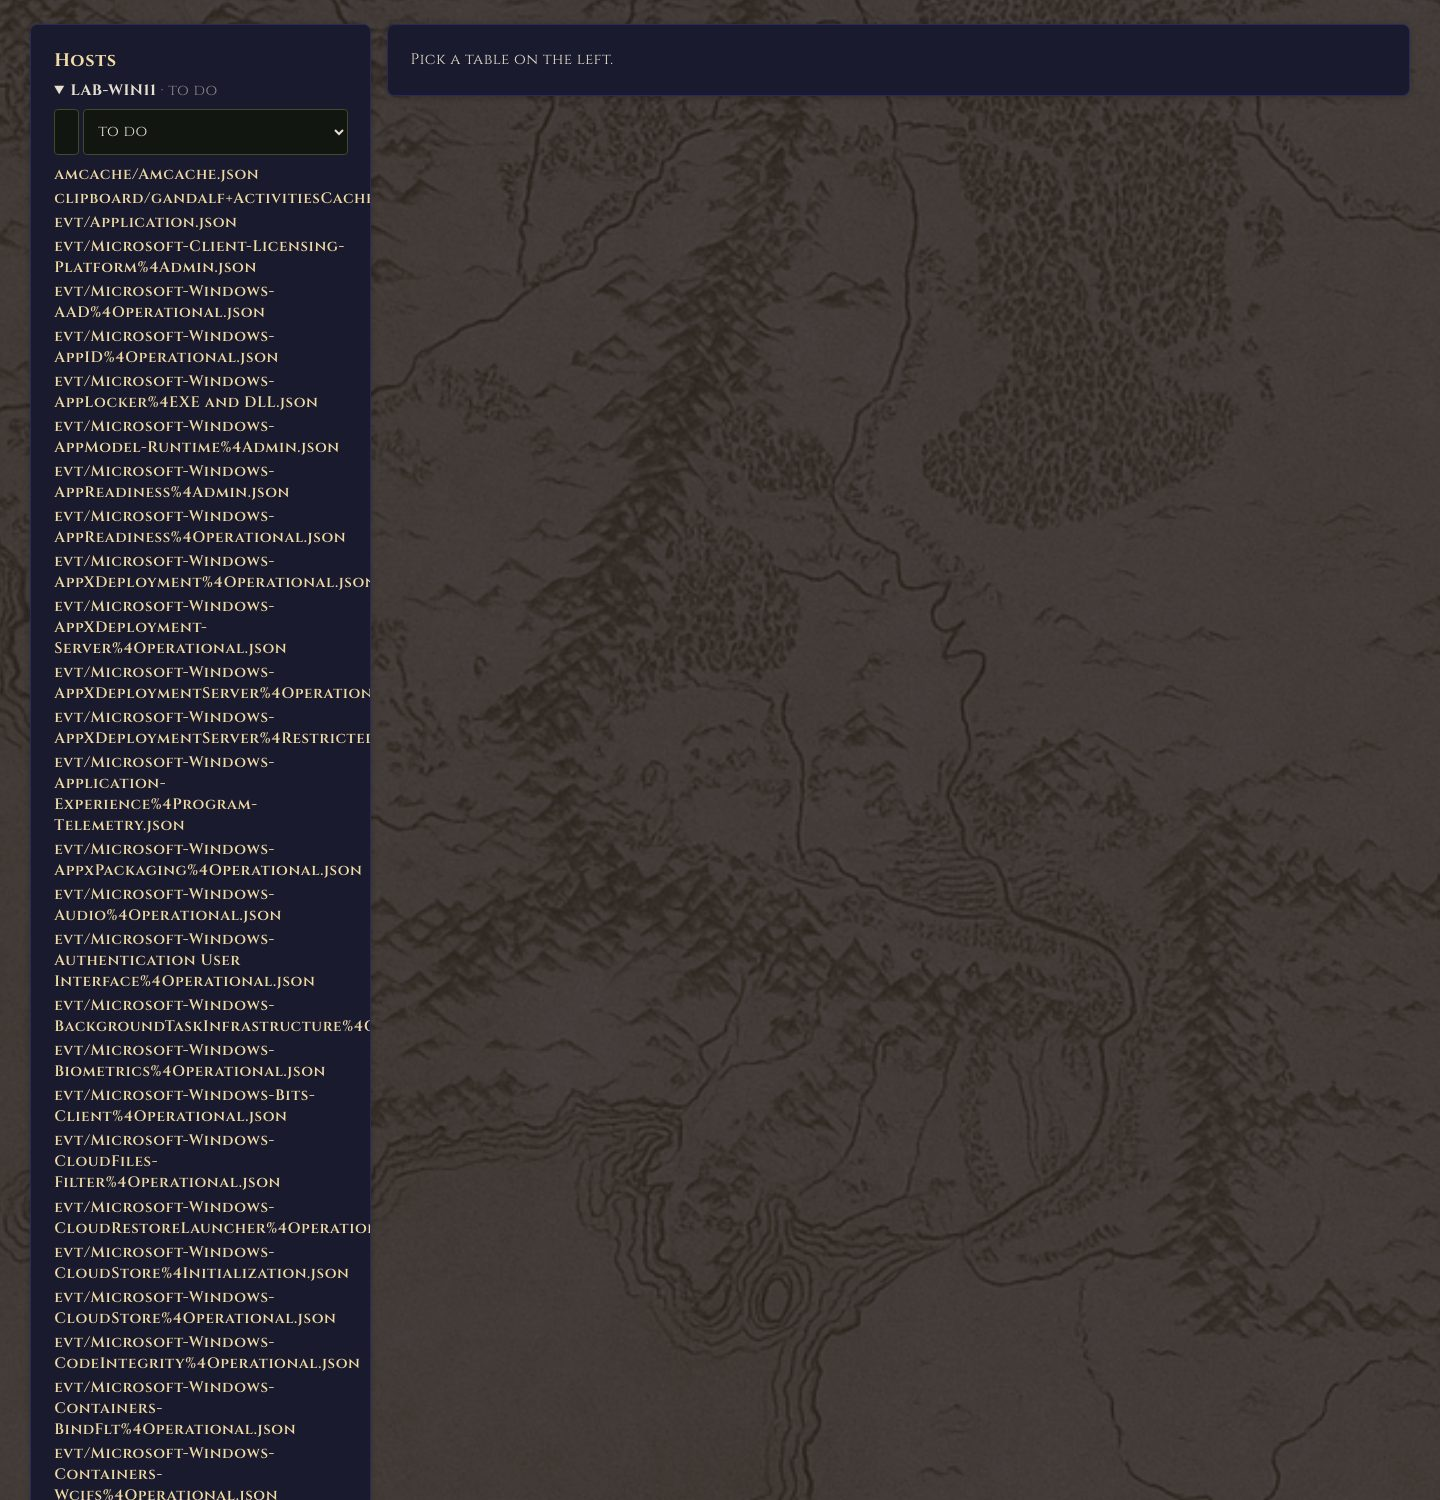
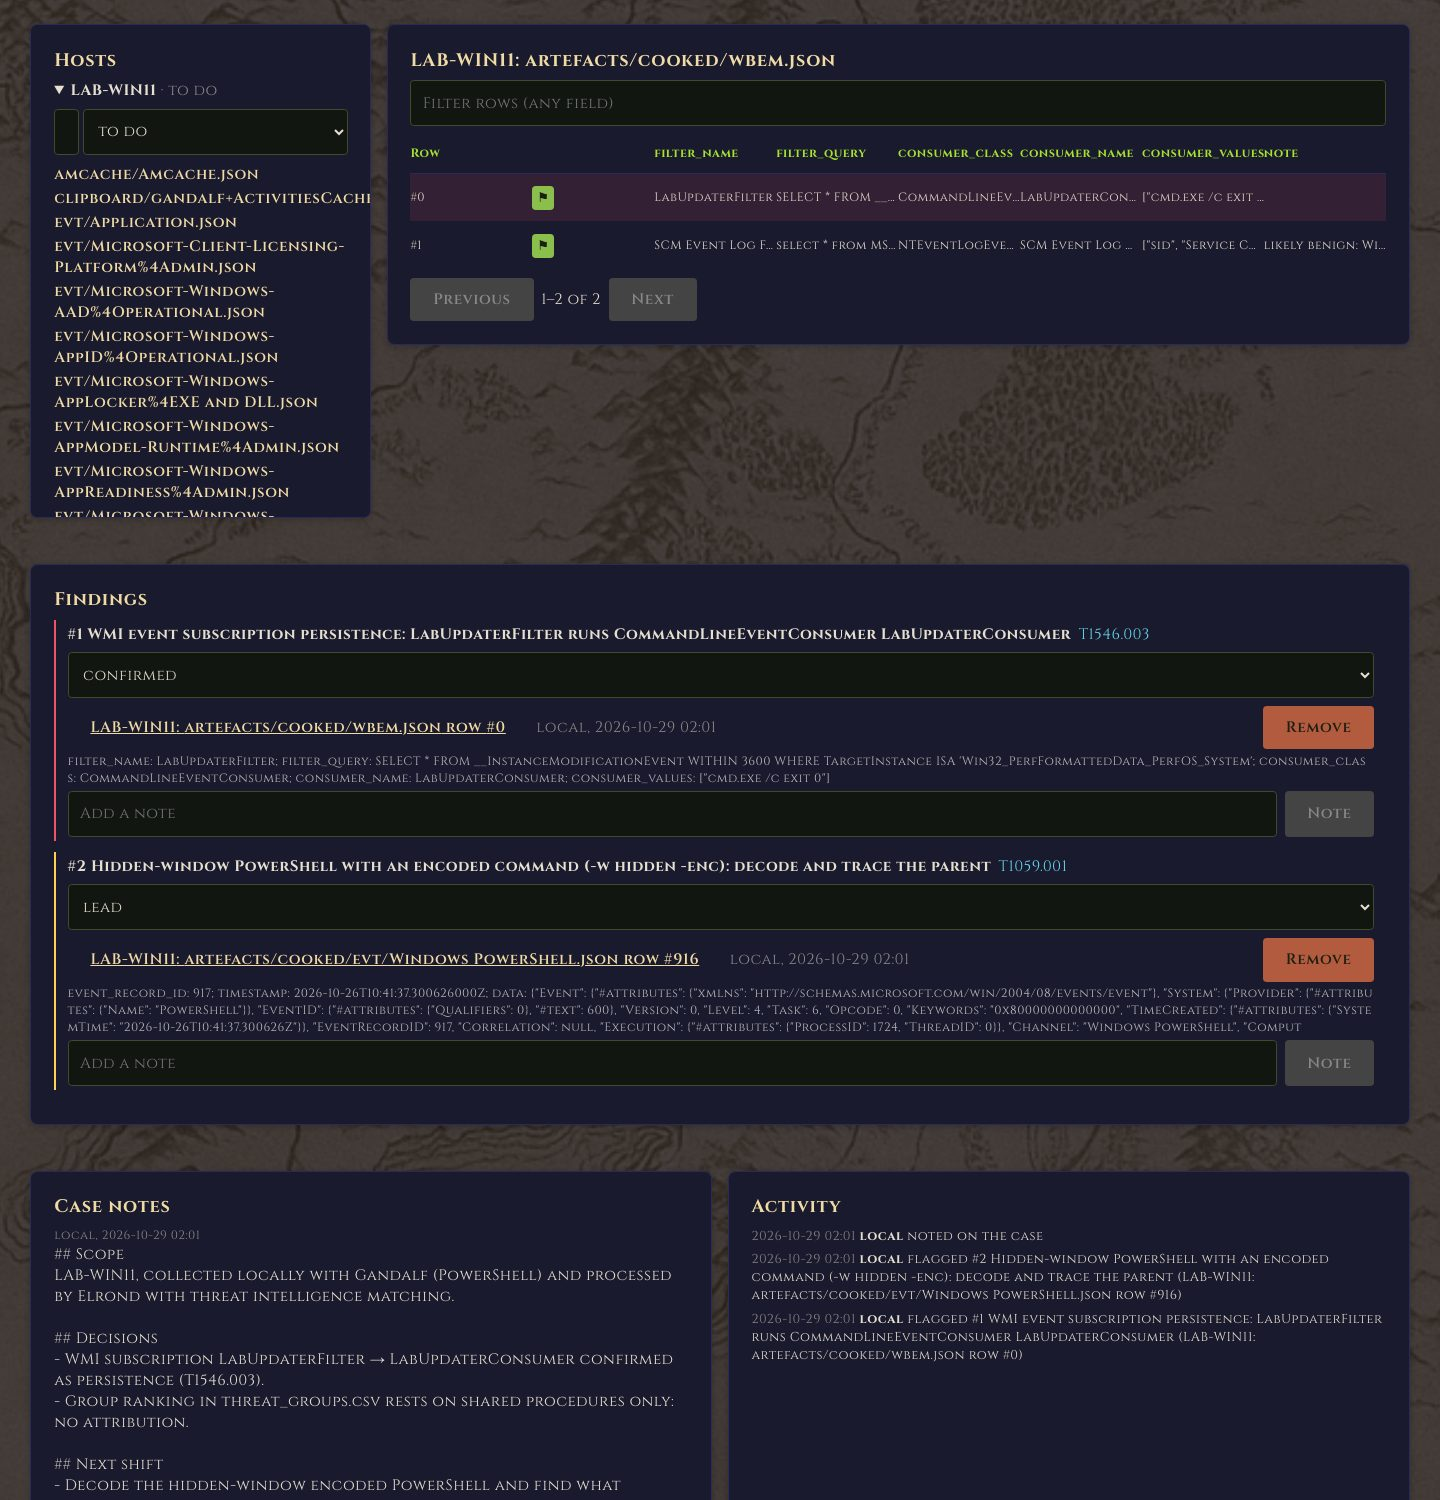
feat(docs): capture.py --only retakes single guide pages; the case page shows findings
--only names the pages to retake (ids from guide/content.js) and keeps the rest. The case
page's photograph had only Hosts and Rows: in the capture's 2400px window the host list ran to
80vh and pushed Findings, Notes and Activity past the photograph's height. The capture now opens
a table and holds the host list to 520px, so all five sections are in it.

Claude-Session: https://claude.ai/code/session_01TdsyJeZN2QPQMRpu8yEzJL

diff --git a/scripts/docs/guide/capture.py b/scripts/docs/guide/capture.py
@@ -14,7 +14,8 @@ Sign in as an admin (--username, with RIVENDELL_PASSWORD in the environment) so 
 and Aragorn are photographed too. The Job page uses the most recent job, so have one.
 
 A page that now shows fewer of its sections than its last photograph did (no jobs on this
-install, the lab agent not running) keeps that photograph; --fresh replaces them all.
+install, the lab agent not running) keeps that photograph; --fresh replaces them all. --only
+retakes just the named pages (python3 scripts/docs/guide/capture.py --only case intel).
 """
 import argparse
 import json
@@ -76,6 +77,15 @@ def prepare(page, page_id: str) -> None:
         page.wait_for_timeout(1500)  # the case number is checked against existing cases
         page.check("input[name=analysisMode][value=local]")
         page.wait_for_timeout(800)
+    elif page_id == "case":
+        # A table open, and the host list held to the height of a laptop screen: in the tall window
+        # it would otherwise run to 80vh and push Findings, Notes and Activity out of the photograph
+        table = page.locator("[data-guide='case.hosts'] button:text-is('wbem.json')")
+        if table.count():
+            table.first.click()
+            page.wait_for_timeout(1500)
+        page.evaluate("(el => { el.style.maxHeight = '520px'; el.scrollTop = 0; })"
+                      "(document.querySelector(\"[data-guide='case.hosts']\"))")
 
 
 def capture(args: argparse.Namespace) -> None:
@@ -90,6 +100,9 @@ def capture(args: argparse.Namespace) -> None:
     except OSError as exc:
         print(f"  Couldn't list jobs ({exc}): the Job page is skipped")
 
+    known = [page_id for page_id, _, _ in guide_pages()]
+    if args.only and set(args.only) - set(known):
+        sys.exit(f"No guide page {', '.join(sorted(set(args.only) - set(known)))}: pick from {', '.join(known)}")
     OUT.mkdir(parents=True, exist_ok=True)
     earlier = {}
     if not args.fresh and (OUT / "boxes.json").exists():
@@ -105,6 +118,8 @@ def capture(args: argparse.Namespace) -> None:
             + (f"localStorage.setItem('user', {json.dumps(json.dumps(user))});" if user else ""))
         page = context.new_page()
         for page_id, route, sections in guide_pages():
+            if args.only and page_id not in args.only:
+                continue
             if ":first" in route:
                 if not job_id:
                     print(f"  {page_id}: no jobs yet, skipped")
@@ -152,6 +167,8 @@ def main() -> None:
     parser.add_argument("--token", help="an API token (or RIVENDELL_TOKEN)")
     parser.add_argument("--username", help="sign in as this user (password in RIVENDELL_PASSWORD)")
     parser.add_argument("--fresh", action="store_true", help="replace every photograph, even with fewer sections")
+    parser.add_argument("--only", nargs="+", metavar="PAGE",
+                        help="retake just these pages (ids from guide/content.js: case, intel, home, ...); the rest are kept")
     capture(parser.parse_args())
 
 

diff --git a/scripts/docs/video/README.md b/scripts/docs/video/README.md
@@ -30,6 +30,16 @@ scripts/docs/video/regenerate.sh --video-only --preview          # silent, to ch
 The guide's photographs (`src/web/frontend/public/guide/`) are part of the app, so commit them
 when they change. The script reminds you.
 
+To retake only some of the guide's pages, run the capture directly. Page IDs come from
+`src/web/frontend/src/guide/content.js`:
+
+```bash
+~/.cache/rivendell-video/bin/python scripts/docs/guide/capture.py --only case intel
+```
+
+Add `--username admin` (with `RIVENDELL_PASSWORD` set) for pages that need an admin: Account,
+Aragorn and Aragorn's settings.
+
 ## What it needs
 
 | What | Where |
